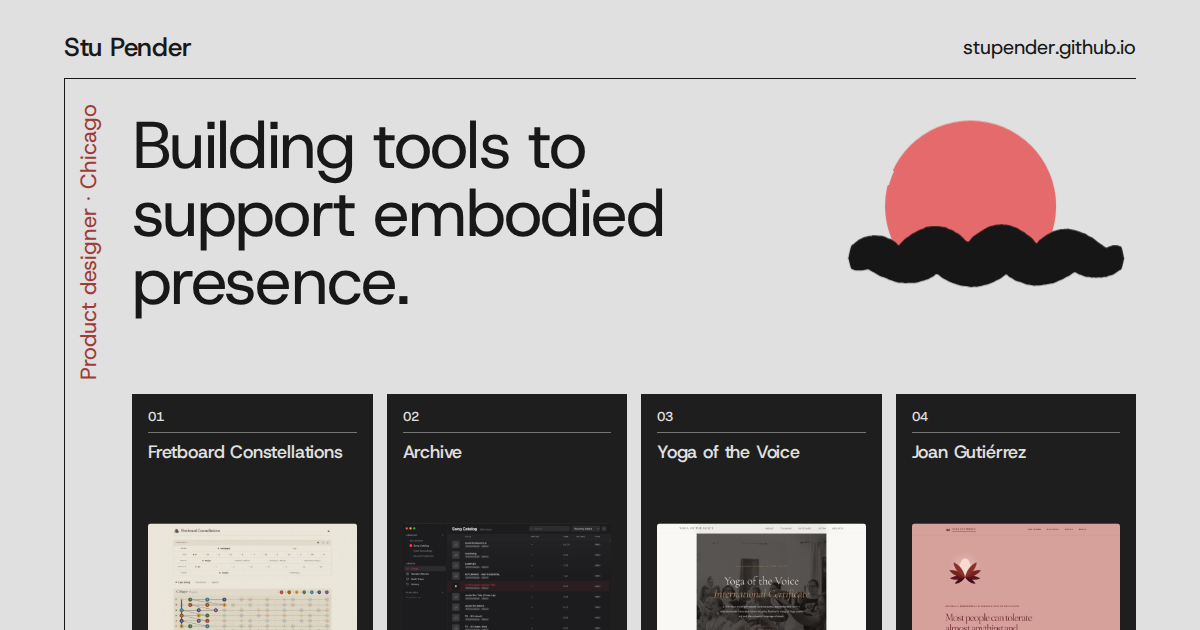
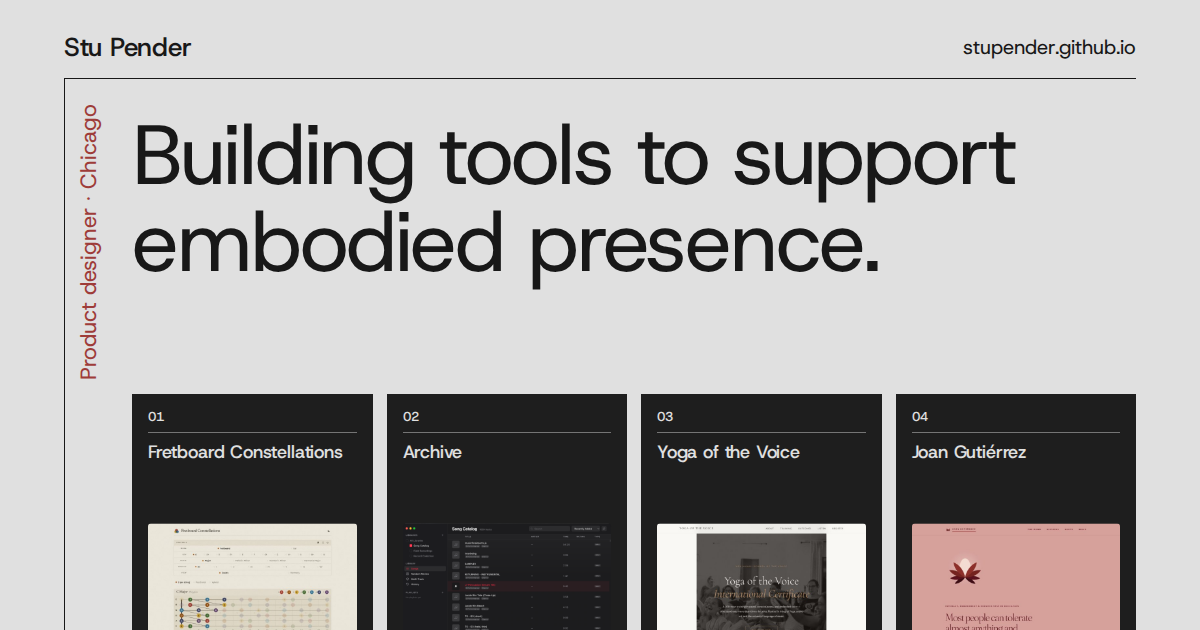
Hero: no picture for now; the column is held for a photo (#6)
* Hero: the rings — nine loops, one ring each

The cut-paper sun and wave give way to a zone plate after two plates of
concentric rings: a still coral centre and nine rings thinning outward,
one per loop of the ambient piece (fastest innermost, the two drones
outermost). Each loop now plays through its own analyser; with the sound
on, its ring swells with that loop's loudness, so it keeps the loop's
exact time. A 'Listen' button under the intro starts it; the header
toggle and the button stay in step; reduced motion keeps the rings
still. Link-preview card and alt text updated.

Claude-Session: https://claude.ai/code/session_01LLZ4q1jfkHcvGvjUiXE1J6

* Hero: no picture for now; the column is held for a photo

Takes the sun-and-wave picture out of the hero (and the rings
experiment with it): the statement stands alone, and the right-hand
column stays empty, with a comment in index.html showing where a photo
goes. Link-preview card and alt text follow; the headline fills the card.

Claude-Session: https://claude.ai/code/session_01LLZ4q1jfkHcvGvjUiXE1J6

---------

Changed region(s): [[0.0925, 0.181, 0.9558, 0.5127]]

diff --git a/index.html b/index.html
@@ -15,7 +15,7 @@
     <meta property="og:image" content="https://stupender.github.io/images/og-card.png">
     <meta property="og:image:width" content="1200">
     <meta property="og:image:height" content="630">
-    <meta property="og:image:alt" content="Stu Pender, product designer — “Building tools to support embodied presence,” beside a cut-paper sun rising behind a wave, over four charcoal cards of his projects.">
+    <meta property="og:image:alt" content="Stu Pender, product designer — “Building tools to support embodied presence,” over four charcoal cards of his projects.">
     <meta name="twitter:card" content="summary_large_image">
 
     <link rel="icon" type="image/png" sizes="32x32" href="images/favicon-32.png">
@@ -26,7 +26,7 @@
     <link rel="preconnect" href="https://fonts.gstatic.com" crossorigin>
     <link href="https://fonts.googleapis.com/css2?family=Host+Grotesk:ital,wght@0,300..700;1,300..700&display=swap" rel="stylesheet">
 
-    <link rel="stylesheet" href="styles.css?v=20261001n">
+    <link rel="stylesheet" href="styles.css?v=20261001b">
 </head>
 <body>
 
@@ -55,8 +55,8 @@
     <main id="top">
 
         <!-- ========================================================= -->
-        <!-- HERO — the statement beside a cut-paper picture (the sun -->
-        <!-- rising behind a wave), then one colour card per project.  -->
+        <!-- HERO — the statement (the right-hand column is held for  -->
+        <!-- a photo), then one card per project.                      -->
         <!-- ========================================================= -->
         <section class="hero" aria-labelledby="hero-heading">
             <p class="rail-label">Product designer · Chicago</p>
@@ -76,9 +76,11 @@
                          mid-session — made to support the process, then fall away as we return
                          to our work in the world. -->
                 </div>
-                <figure class="hero-art">
-                    <svg class="art" viewBox="64 128 526 336" aria-hidden="true" focusable="false"><defs><filter id="cut" x="-4%" y="-4%" width="108%" height="108%"><feTurbulence type="fractalNoise" baseFrequency="0.022" numOctaves="1" seed="3" result="n"/><feDisplacementMap in="SourceGraphic" in2="n" scale="3.5"/></filter></defs><g filter="url(#cut)"><clipPath id="set"><rect x="0" y="0" width="600" height="392"/></clipPath><circle class="sun" cx="300" cy="300" r="150" clip-path="url(#set)"/><g transform="translate(300 392) scale(1.02) translate(-302 -276)"><path class="wave" d="M92.0,276.1C91.3,276.8 94.9,259.7 96.3,255.6C97.7,251.4 99.2,252.6 100.6,251.3C102.1,249.9 103.5,248.7 104.9,247.5C106.4,246.3 107.8,245.1 109.2,244.1C110.7,243.2 112.1,242.7 113.5,241.9C115.0,241.2 116.4,240.3 117.9,239.8C119.3,239.2 120.7,239.1 122.2,238.7C123.6,238.2 125.0,237.5 126.5,237.2C127.9,236.9 129.3,237.3 130.8,237.1C132.2,236.9 133.7,235.9 135.1,235.8C136.5,235.7 138.0,236.4 139.4,236.5C140.8,236.7 142.3,236.6 143.7,236.7C145.1,236.7 146.6,236.8 148.0,236.9C149.5,237.1 150.9,237.2 152.3,237.6C153.8,238.0 155.2,238.8 156.6,239.4C158.1,240.1 159.5,240.9 160.9,241.5C162.4,242.1 163.8,242.1 165.3,242.9C166.7,243.6 168.1,244.8 169.6,245.8C171.0,246.8 172.4,247.6 173.9,248.8C175.3,250.0 176.7,253.1 178.2,253.1C179.6,253.1 181.1,250.0 182.5,248.6C183.9,247.2 185.4,245.8 186.8,244.5C188.2,243.2 189.7,241.6 191.1,240.5C192.5,239.4 194.0,239.0 195.4,238.0C196.9,237.0 198.3,235.5 199.7,234.6C201.2,233.6 202.6,233.1 204.0,232.2C205.5,231.4 206.9,230.5 208.3,229.7C209.8,228.8 211.2,227.9 212.7,227.2C214.1,226.6 215.5,226.3 217.0,225.8C218.4,225.2 219.8,224.7 221.3,224.1C222.7,223.5 224.1,222.4 225.6,221.9C227.0,221.5 228.5,221.6 229.9,221.4C231.3,221.1 232.8,220.5 234.2,220.4C235.6,220.2 237.1,220.5 238.5,220.5C239.9,220.5 241.4,220.5 242.8,220.5C244.3,220.4 245.7,220.3 247.1,220.4C248.6,220.5 250.0,220.8 251.4,221.1C252.9,221.3 254.3,221.7 255.7,221.9C257.2,222.2 258.6,222.3 260.1,222.8C261.5,223.3 262.9,224.5 264.4,225.2C265.8,225.8 267.2,226.1 268.7,226.6C270.1,227.2 271.5,227.8 273.0,228.7C274.4,229.5 275.9,230.9 277.3,231.8C278.7,232.7 280.2,233.0 281.6,233.9C283.0,234.9 284.5,236.4 285.9,237.7C287.3,238.9 288.8,239.9 290.2,241.3C291.7,242.7 293.1,245.1 294.5,246.0C296.0,246.9 297.4,247.3 298.8,246.5C300.3,245.8 301.7,243.0 303.1,241.4C304.6,239.9 306.0,238.6 307.5,237.4C308.9,236.2 310.3,235.2 311.8,234.2C313.2,233.3 314.6,232.3 316.1,231.4C317.5,230.5 318.9,229.6 320.4,228.7C321.8,227.8 323.3,227.1 324.7,226.2C326.1,225.3 327.6,224.1 329.0,223.3C330.4,222.5 331.9,222.0 333.3,221.5C334.7,220.9 336.2,220.6 337.6,220.2C339.1,219.9 340.5,219.6 341.9,219.2C343.4,218.8 344.8,218.0 346.2,217.8C347.7,217.6 349.1,217.9 350.5,217.8C352.0,217.7 353.4,217.0 354.9,217.0C356.3,217.0 357.7,217.7 359.2,217.9C360.6,218.0 362.0,217.8 363.5,218.0C364.9,218.1 366.3,218.4 367.8,218.8C369.2,219.1 370.7,219.5 372.1,220.0C373.5,220.5 375.0,221.4 376.4,221.9C377.8,222.4 379.3,222.5 380.7,223.1C382.1,223.7 383.6,224.6 385.0,225.4C386.5,226.2 387.9,227.1 389.3,228.0C390.8,228.8 392.2,229.5 393.6,230.5C395.1,231.5 396.5,232.9 397.9,234.0C399.4,235.0 400.8,235.5 402.3,236.6C403.7,237.6 405.1,238.7 406.6,240.1C408.0,241.4 409.4,243.2 410.9,244.8C412.3,246.4 413.7,249.7 415.2,249.7C416.6,249.7 418.1,246.3 419.5,245.0C420.9,243.7 422.4,243.1 423.8,242.0C425.2,240.9 426.7,239.8 428.1,238.6C429.5,237.5 431.0,236.1 432.4,235.3C433.9,234.4 435.3,234.0 436.7,233.3C438.2,232.5 439.6,231.6 441.0,230.8C442.5,230.1 443.9,229.4 445.3,228.8C446.8,228.2 448.2,227.7 449.7,227.3C451.1,226.9 452.5,226.6 454.0,226.3C455.4,226.0 456.8,226.0 458.3,225.8C459.7,225.6 461.1,225.2 462.6,225.1C464.0,225.0 465.5,225.1 466.9,225.1C468.3,225.1 469.8,224.8 471.2,225.0C472.6,225.1 474.1,225.6 475.5,225.9C476.9,226.2 478.4,226.5 479.8,226.9C481.3,227.2 482.7,227.6 484.1,228.0C485.6,228.4 487.0,228.7 488.4,229.3C489.9,229.8 491.3,230.6 492.7,231.1C494.2,231.6 495.6,231.9 497.1,232.4C498.5,233.0 499.9,233.7 501.4,234.5C502.8,235.4 504.2,236.7 505.7,237.6C507.1,238.4 508.5,238.7 510.0,239.5C511.4,240.3 512.9,241.3 514.3,242.4C515.7,243.4 517.2,244.8 518.6,245.9C520.0,247.0 521.5,248.0 522.9,249.1C524.3,250.1 525.8,251.0 527.2,252.0C528.7,253.1 530.1,254.5 531.5,255.4C533.0,256.2 534.4,257.1 535.8,257.2C537.3,257.2 538.7,256.0 540.1,255.4C541.6,254.9 543.0,254.1 544.5,253.8C545.9,253.4 547.3,253.3 548.8,253.2C550.2,253.1 551.6,252.9 553.1,253.1C554.5,253.3 555.9,253.5 557.4,254.2C558.8,254.9 560.3,253.8 561.7,257.5C563.1,261.1 565.3,273.0 566.0,276.1C566.7,279.1 566.7,272.8 566.0,275.6C565.3,278.5 563.1,289.6 561.7,293.1C560.3,296.6 558.8,295.6 557.4,296.7C555.9,297.8 554.5,298.7 553.1,299.7C551.6,300.7 550.2,301.8 548.8,302.6C547.3,303.4 545.9,304.1 544.5,304.6C543.0,305.1 541.6,305.0 540.1,305.5C538.7,306.0 537.3,307.1 535.8,307.5C534.4,307.9 533.0,307.5 531.5,307.7C530.1,307.9 528.7,308.7 527.2,308.9C525.8,309.0 524.3,308.6 522.9,308.7C521.5,308.7 520.0,309.1 518.6,309.1C517.2,309.1 515.7,308.7 514.3,308.6C512.9,308.6 511.4,309.1 510.0,308.9C508.5,308.7 507.1,307.9 505.7,307.7C504.2,307.5 502.8,307.9 501.4,307.7C499.9,307.5 498.5,307.0 497.1,306.5C495.6,305.9 494.2,305.0 492.7,304.5C491.3,303.9 489.9,303.9 488.4,303.3C487.0,302.6 485.6,301.1 484.1,300.6C482.7,300.1 481.3,299.7 479.8,300.1C478.4,300.5 476.9,302.2 475.5,303.1C474.1,304.1 472.6,305.1 471.2,305.9C469.8,306.6 468.3,307.1 466.9,307.8C465.5,308.5 464.0,309.5 462.6,310.3C461.1,311.1 459.7,311.8 458.3,312.4C456.8,313.0 455.4,313.4 454.0,314.0C452.5,314.6 451.1,315.4 449.7,316.1C448.2,316.7 446.8,317.3 445.3,317.8C443.9,318.3 442.5,318.7 441.0,319.0C439.6,319.4 438.2,319.6 436.7,319.9C435.3,320.1 433.9,320.5 432.4,320.7C431.0,320.9 429.5,321.0 428.1,321.2C426.7,321.4 425.2,321.6 423.8,321.8C422.4,322.0 420.9,322.4 419.5,322.5C418.1,322.6 416.6,322.2 415.2,322.2C413.7,322.3 412.3,322.7 410.9,322.6C409.4,322.5 408.0,321.9 406.6,321.7C405.1,321.4 403.7,321.2 402.3,321.0C400.8,320.8 399.4,320.9 397.9,320.6C396.5,320.2 395.1,319.5 393.6,318.9C392.2,318.3 390.8,317.7 389.3,317.2C387.9,316.7 386.5,316.5 385.0,316.0C383.6,315.6 382.1,315.1 380.7,314.5C379.3,313.9 377.8,313.0 376.4,312.2C375.0,311.3 373.5,310.2 372.1,309.3C370.7,308.5 369.2,308.1 367.8,307.2C366.3,306.2 364.9,303.7 363.5,303.5C362.0,303.4 360.6,305.1 359.2,306.1C357.7,307.1 356.3,308.4 354.9,309.4C353.4,310.4 352.0,311.3 350.5,312.0C349.1,312.8 347.7,313.1 346.2,313.8C344.8,314.5 343.4,315.4 341.9,316.1C340.5,316.8 339.1,317.3 337.6,317.9C336.2,318.5 334.7,319.3 333.3,319.8C331.9,320.3 330.4,320.7 329.0,321.0C327.6,321.4 326.1,321.4 324.7,321.8C323.3,322.2 321.8,322.8 320.4,323.2C318.9,323.6 317.5,323.9 316.1,324.1C314.6,324.4 313.2,324.7 311.8,324.7C310.3,324.7 308.9,324.3 307.5,324.4C306.0,324.5 304.6,325.1 303.1,325.1C301.7,325.1 300.3,324.5 298.8,324.3C297.4,324.0 296.0,323.9 294.5,323.7C293.1,323.5 291.7,323.2 290.2,323.0C288.8,322.9 287.3,323.1 285.9,322.9C284.5,322.6 283.0,321.9 281.6,321.4C280.2,320.9 278.7,320.4 277.3,320.0C275.9,319.5 274.4,319.4 273.0,319.0C271.5,318.5 270.1,317.7 268.7,317.1C267.2,316.5 265.8,316.0 264.4,315.3C262.9,314.6 261.5,313.8 260.1,313.0C258.6,312.2 257.2,311.3 255.7,310.5C254.3,309.6 252.9,309.0 251.4,308.0C250.0,306.9 248.6,305.1 247.1,304.3C245.7,303.5 244.3,302.8 242.8,303.1C241.4,303.5 239.9,305.5 238.5,306.4C237.1,307.3 235.6,307.8 234.2,308.6C232.8,309.3 231.3,310.4 229.9,311.0C228.5,311.6 227.0,311.8 225.6,312.3C224.1,312.9 222.7,313.7 221.3,314.2C219.8,314.6 218.4,314.4 217.0,314.9C215.5,315.3 214.1,316.2 212.7,316.7C211.2,317.1 209.8,317.3 208.3,317.5C206.9,317.7 205.5,317.8 204.0,317.9C202.6,318.0 201.2,318.1 199.7,318.2C198.3,318.2 196.9,318.1 195.4,318.2C194.0,318.2 192.5,318.5 191.1,318.4C189.7,318.4 188.2,318.1 186.8,317.9C185.4,317.7 183.9,317.5 182.5,317.4C181.1,317.4 179.6,317.7 178.2,317.5C176.7,317.3 175.3,316.7 173.9,316.3C172.4,315.8 171.0,315.4 169.6,314.9C168.1,314.4 166.7,313.7 165.3,313.2C163.8,312.7 162.4,312.5 160.9,311.9C159.5,311.4 158.1,310.6 156.6,310.0C155.2,309.5 153.8,308.8 152.3,308.3C150.9,307.8 149.5,307.6 148.0,307.0C146.6,306.4 145.1,305.5 143.7,304.7C142.3,303.8 140.8,302.8 139.4,301.9C138.0,301.1 136.5,300.3 135.1,299.5C133.7,298.8 132.2,298.2 130.8,297.4C129.3,296.6 127.9,295.2 126.5,294.8C125.0,294.5 123.6,295.0 122.2,295.2C120.7,295.5 119.3,295.9 117.9,296.1C116.4,296.3 115.0,296.4 113.5,296.5C112.1,296.5 110.7,296.3 109.2,296.4C107.8,296.4 106.4,296.8 104.9,296.6C103.5,296.4 102.1,295.9 100.6,295.2C99.2,294.4 97.7,295.3 96.3,292.1C94.9,288.9 92.7,278.5 92.0,275.8C91.3,273.1 91.3,279.5 92.0,276.1Z"/></g></g></svg>
-                </figure>
+                <!-- The right-hand column is held for a photo. To add one, put it here:
+                     <figure class="hero-art">
+                         <img src="images/hero.jpg" alt="…" width="1200" height="1500">
+                     </figure>
+                     It sits beside the intro on wide screens and above the headline on phones. -->
             </div>
 
             <!-- The four selected projects, one colour card each — the same colour

diff --git a/styles.css b/styles.css
@@ -16,8 +16,7 @@
      for, and the work rising from the bottom edge.
    · BACK  — the case study opens on that same colour, like the back of
      the card, and ends on the next project's card.
-   · The picture in the hero is cut paper: a red sun rising behind a
-     cobalt wave. The red is used nowhere else.
+   · The hero's right-hand column is held for a photo.
    · Anything you can press is cobalt and turns black on hover.
    · Titles run the full width of their column. Sentence case. Nothing
      moves on hover.
@@ -54,7 +53,7 @@
     --label:      var(--cobalt);           /* section names, numbers       */
     --hover:      var(--ink);              /* anything you touch, on paper */
     --hover-dark: var(--ink);              /* …on the cobalt menu page     */
-    --sun:        #E24A2B;                 /* the sun in the picture only  */
+    --sun:        #E24A2B;                 /* the one warm accent          */
 
     /* Fields — one colour per project, chosen against its screenshot
        so the work stands out: the colour of its card and of the top of
@@ -468,8 +467,8 @@ a[download]::after {
 }
 
 /* =================================================================
-   HERO — the statement beside the cut-paper picture, then one card
-   front per selected project.
+   HERO — the statement, with its right-hand column held for a photo,
+   then one card per selected project.
    ================================================================= */
 .hero {
     position: relative;
@@ -512,9 +511,8 @@ a[download]::after {
     text-wrap: pretty;
 }
 .hero-art { margin: clamp(1.4rem, 3vw, 2rem) 0 0; }
-.art { display: block; width: 100%; height: auto; }
-.art .wave { fill: var(--cobalt); }
-.art .sun { fill: var(--sun); }
+/* Held for a photo (see the comment in index.html). */
+.hero-art img { display: block; width: 100%; height: auto; aspect-ratio: 4 / 5; object-fit: cover; }
 
 /* ---- The cards ------------------------------------------------------
    One flat colour per project, after the Transient Senses programme,

diff --git a/archive-case-study.html b/archive-case-study.html
@@ -15,7 +15,7 @@
     <meta property="og:image" content="https://stupender.github.io/images/og-card.png">
     <meta property="og:image:width" content="1200">
     <meta property="og:image:height" content="630">
-    <meta property="og:image:alt" content="Stu Pender, product designer — “Building tools to support embodied presence,” beside a cut-paper sun rising behind a wave, over four charcoal cards of his projects.">
+    <meta property="og:image:alt" content="Stu Pender, product designer — “Building tools to support embodied presence,” over four charcoal cards of his projects.">
     <meta name="twitter:card" content="summary_large_image">
 
     <link rel="icon" type="image/png" sizes="32x32" href="images/favicon-32.png">
@@ -26,7 +26,7 @@
     <link rel="preconnect" href="https://fonts.gstatic.com" crossorigin>
     <link href="https://fonts.googleapis.com/css2?family=Host+Grotesk:ital,wght@0,300..700;1,300..700&display=swap" rel="stylesheet">
 
-    <link rel="stylesheet" href="styles.css?v=20261001n">
+    <link rel="stylesheet" href="styles.css?v=20261001b">
 </head>
 <body>
 

diff --git a/archive.html b/archive.html
@@ -15,7 +15,7 @@
     <meta property="og:image" content="https://stupender.github.io/images/og-card.png">
     <meta property="og:image:width" content="1200">
     <meta property="og:image:height" content="630">
-    <meta property="og:image:alt" content="Stu Pender, product designer — “Building tools to support embodied presence,” beside a cut-paper sun rising behind a wave, over four charcoal cards of his projects.">
+    <meta property="og:image:alt" content="Stu Pender, product designer — “Building tools to support embodied presence,” over four charcoal cards of his projects.">
     <meta name="twitter:card" content="summary_large_image">
 
     <link rel="icon" type="image/png" sizes="32x32" href="images/favicon-32.png">
@@ -26,7 +26,7 @@
     <link rel="preconnect" href="https://fonts.gstatic.com" crossorigin>
     <link href="https://fonts.googleapis.com/css2?family=Host+Grotesk:ital,wght@0,300..700;1,300..700&display=swap" rel="stylesheet">
 
-    <link rel="stylesheet" href="styles.css?v=20261001n">
+    <link rel="stylesheet" href="styles.css?v=20261001b">
 </head>
 <body>
 

diff --git a/fretboard-constellations.html b/fretboard-constellations.html
@@ -15,7 +15,7 @@
     <meta property="og:image" content="https://stupender.github.io/images/og-card.png">
     <meta property="og:image:width" content="1200">
     <meta property="og:image:height" content="630">
-    <meta property="og:image:alt" content="Stu Pender, product designer — “Building tools to support embodied presence,” beside a cut-paper sun rising behind a wave, over four charcoal cards of his projects.">
+    <meta property="og:image:alt" content="Stu Pender, product designer — “Building tools to support embodied presence,” over four charcoal cards of his projects.">
     <meta name="twitter:card" content="summary_large_image">
 
     <link rel="icon" type="image/png" sizes="32x32" href="images/favicon-32.png">
@@ -26,7 +26,7 @@
     <link rel="preconnect" href="https://fonts.gstatic.com" crossorigin>
     <link href="https://fonts.googleapis.com/css2?family=Host+Grotesk:ital,wght@0,300..700;1,300..700&display=swap" rel="stylesheet">
 
-    <link rel="stylesheet" href="styles.css?v=20261001n">
+    <link rel="stylesheet" href="styles.css?v=20261001b">
 </head>
 <body>
 

diff --git a/ground-beneath-our-feet.html b/ground-beneath-our-feet.html
@@ -15,7 +15,7 @@
     <meta property="og:image" content="https://stupender.github.io/images/og-card.png">
     <meta property="og:image:width" content="1200">
     <meta property="og:image:height" content="630">
-    <meta property="og:image:alt" content="Stu Pender, product designer — “Building tools to support embodied presence,” beside a cut-paper sun rising behind a wave, over four charcoal cards of his projects.">
+    <meta property="og:image:alt" content="Stu Pender, product designer — “Building tools to support embodied presence,” over four charcoal cards of his projects.">
     <meta name="twitter:card" content="summary_large_image">
 
     <link rel="icon" type="image/png" sizes="32x32" href="images/favicon-32.png">
@@ -26,7 +26,7 @@
     <link rel="preconnect" href="https://fonts.gstatic.com" crossorigin>
     <link href="https://fonts.googleapis.com/css2?family=Host+Grotesk:ital,wght@0,300..700;1,300..700&display=swap" rel="stylesheet">
 
-    <link rel="stylesheet" href="styles.css?v=20261001n">
+    <link rel="stylesheet" href="styles.css?v=20261001b">
 </head>
 <body>
 

diff --git a/joan-gutierrez.html b/joan-gutierrez.html
@@ -15,7 +15,7 @@
     <meta property="og:image" content="https://stupender.github.io/images/og-card.png">
     <meta property="og:image:width" content="1200">
     <meta property="og:image:height" content="630">
-    <meta property="og:image:alt" content="Stu Pender, product designer — “Building tools to support embodied presence,” beside a cut-paper sun rising behind a wave, over four charcoal cards of his projects.">
+    <meta property="og:image:alt" content="Stu Pender, product designer — “Building tools to support embodied presence,” over four charcoal cards of his projects.">
     <meta name="twitter:card" content="summary_large_image">
 
     <link rel="icon" type="image/png" sizes="32x32" href="images/favicon-32.png">
@@ -26,7 +26,7 @@
     <link rel="preconnect" href="https://fonts.gstatic.com" crossorigin>
     <link href="https://fonts.googleapis.com/css2?family=Host+Grotesk:ital,wght@0,300..700;1,300..700&display=swap" rel="stylesheet">
 
-    <link rel="stylesheet" href="styles.css?v=20261001n">
+    <link rel="stylesheet" href="styles.css?v=20261001b">
 </head>
 <body>
 

diff --git a/resume.html b/resume.html
@@ -15,7 +15,7 @@
     <meta property="og:image" content="https://stupender.github.io/images/og-card.png">
     <meta property="og:image:width" content="1200">
     <meta property="og:image:height" content="630">
-    <meta property="og:image:alt" content="Stu Pender, product designer — “Building tools to support embodied presence,” beside a cut-paper sun rising behind a wave, over four charcoal cards of his projects.">
+    <meta property="og:image:alt" content="Stu Pender, product designer — “Building tools to support embodied presence,” over four charcoal cards of his projects.">
     <meta name="twitter:card" content="summary_large_image">
 
     <link rel="icon" type="image/png" sizes="32x32" href="images/favicon-32.png">
@@ -26,7 +26,7 @@
     <link rel="preconnect" href="https://fonts.gstatic.com" crossorigin>
     <link href="https://fonts.googleapis.com/css2?family=Host+Grotesk:ital,wght@0,300..700;1,300..700&display=swap" rel="stylesheet">
 
-    <link rel="stylesheet" href="styles.css?v=20261001n">
+    <link rel="stylesheet" href="styles.css?v=20261001b">
 </head>
 <body>
 

diff --git a/yoga-of-the-voice.html b/yoga-of-the-voice.html
@@ -15,7 +15,7 @@
     <meta property="og:image" content="https://stupender.github.io/images/og-card.png">
     <meta property="og:image:width" content="1200">
     <meta property="og:image:height" content="630">
-    <meta property="og:image:alt" content="Stu Pender, product designer — “Building tools to support embodied presence,” beside a cut-paper sun rising behind a wave, over four charcoal cards of his projects.">
+    <meta property="og:image:alt" content="Stu Pender, product designer — “Building tools to support embodied presence,” over four charcoal cards of his projects.">
     <meta name="twitter:card" content="summary_large_image">
 
     <link rel="icon" type="image/png" sizes="32x32" href="images/favicon-32.png">
@@ -26,7 +26,7 @@
     <link rel="preconnect" href="https://fonts.gstatic.com" crossorigin>
     <link href="https://fonts.googleapis.com/css2?family=Host+Grotesk:ital,wght@0,300..700;1,300..700&display=swap" rel="stylesheet">
 
-    <link rel="stylesheet" href="styles.css?v=20261001n">
+    <link rel="stylesheet" href="styles.css?v=20261001b">
 </head>
 <body>
 

diff --git a/README.md b/README.md
@@ -32,8 +32,8 @@ Transient Senses programme:
 - **Pairs** — below the header, a case study's summary ("In short") and pull-quote sit on
   a counterpart colour (`--pair`, from `--p-*`), the way the 1971 catalogue pairs an
   orange cover with a khaki one: cobalt/butter, saffron/slate, terracotta/teal, sage/mauve.
-- The hero picture is cut paper: a red sun rising behind a cobalt wave (inline SVG).
-  The red is used nowhere else.
+- The hero is the statement alone for now; its right-hand column is held for a photo
+  (the comment in `index.html` shows where it goes).
 - Anything you can press is cobalt and turns black on hover. On a colour card,
   buttons print in black, since cobalt type is too faint there.
 - On small screens the menu is a page of its own: solid cobalt, links ruled off and
